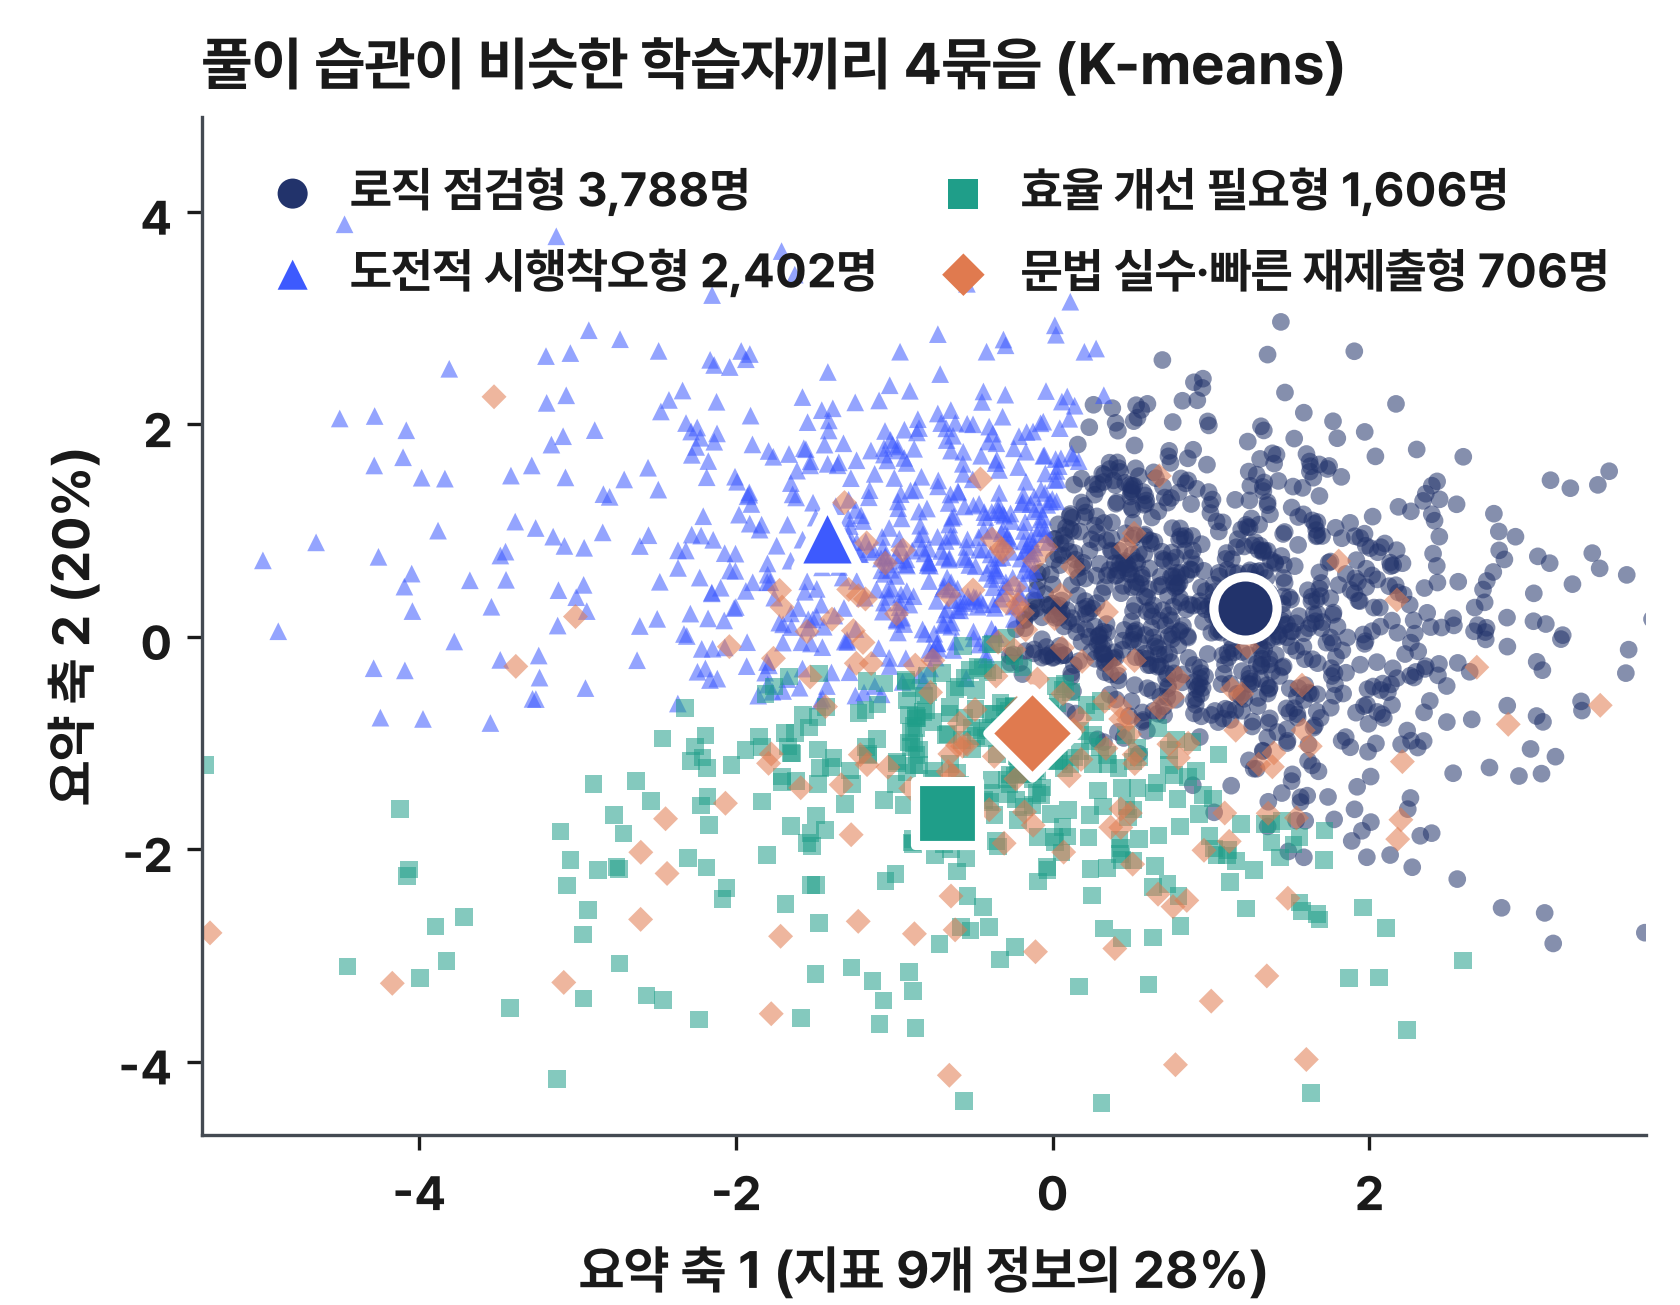
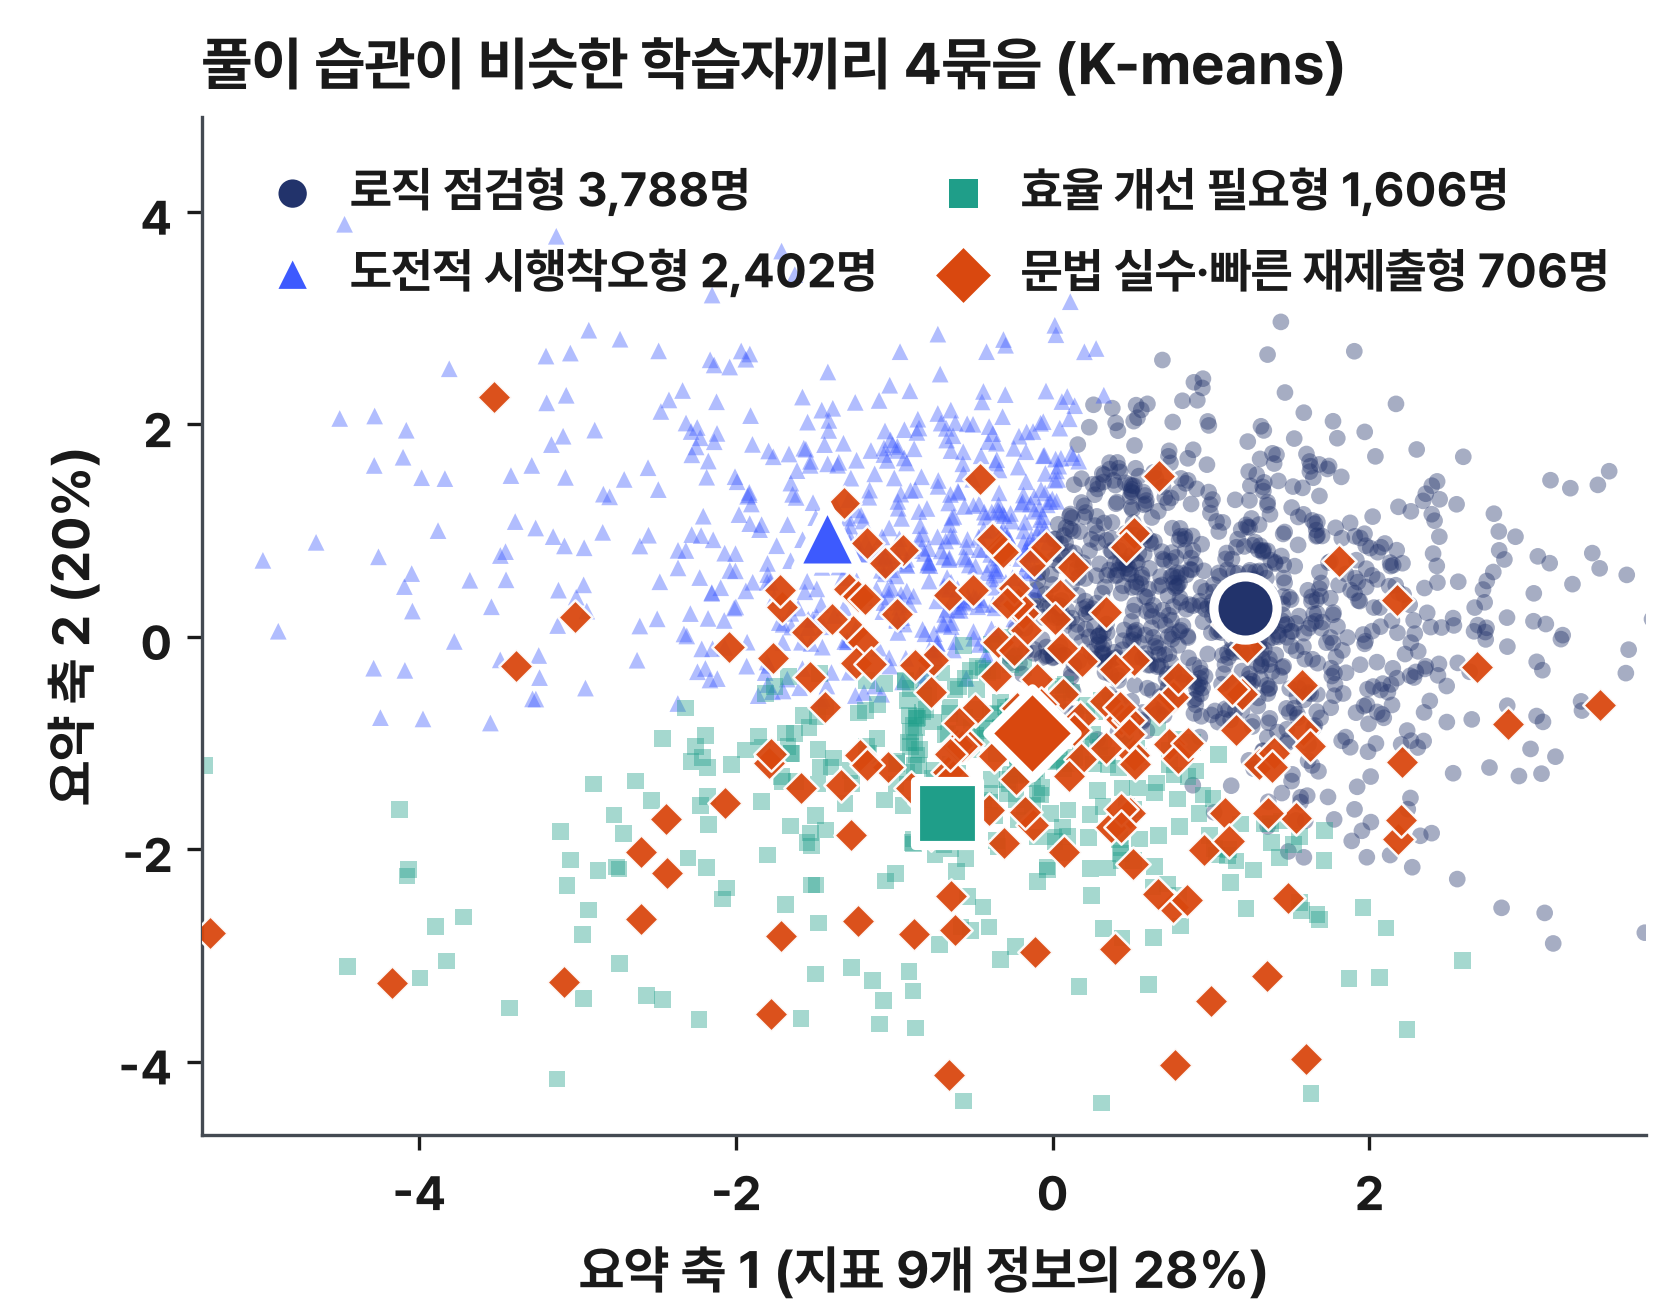
K-means 그래프: 가장 적은 유형(주황 ◆)이 잘 보이도록 수정
- 문법 실수·빠른 재제출형(706명) 점을 더 진한 주황(#D9480F)·더 크게·흰 테두리로, 다른 점 위에 그림
- 다른 유형 점은 조금 더 옅게(alpha 0.40)

diff --git a/make_figures.py b/make_figures.py
@@ -98,12 +98,15 @@ Z = engine.standardize(T, X["레이팅 구간"].to_numpy(), S)[engine.FEATURES].
 Zc = Z - Z.mean(0); U, s_, Vt = np.linalg.svd(Zc, full_matrices=False); P = Zc @ Vt[:2].T
 expl = (s_ ** 2 / (s_ ** 2).sum())[:2]
 C = pd.DataFrame(S["학습유형"]["군집_중심"], columns=engine.FEATURES).to_numpy(); Pc = (C - Z.mean(0)) @ Vt[:2].T
-sty = {2: ("o", NAVY), 4: ("^", BLUE), 1: ("s", "#1F9E89"), 3: ("D", ORANGE)}   # 로직 점검형 ● · 도전적 시행착오형 ▲ · 효율 개선 필요형 ■ · 문법 실수·빠른 재제출형 ◆
+DORANGE = "#D9480F"   # 점이 작아도 잘 보이도록 더 진한 주황
+sty = {2: ("o", NAVY), 4: ("^", BLUE), 1: ("s", "#1F9E89"), 3: ("D", DORANGE)}   # 로직 점검형 ● · 도전적 시행착오형 ▲ · 효율 개선 필요형 ■ · 문법 실수·빠른 재제출형 ◆
 rng = np.random.default_rng(42); idx = rng.choice(len(X), size=min(2000, len(X)), replace=False)
 fig, ax = plt.subplots(figsize=(5.6, 4.35))
 for k in [2, 4, 1, 3]:
     m = X["유형번호"].to_numpy()[idx] == k; mk, col = sty[k]
-    ax.scatter(P[idx][m, 0], P[idx][m, 1], s=18, marker=mk, alpha=0.55, color=col, edgecolors="none",
+    small = k == 3                        # 가장 적은 유형(706명)은 맨 위에, 크고 진하게, 흰 테두리로
+    ax.scatter(P[idx][m, 0], P[idx][m, 1], s=34 if small else 16, marker=mk, alpha=0.95 if small else 0.40, color=col,
+               edgecolors="white" if small else "none", linewidths=0.6, zorder=4 if small else 2,
                label=f"{names[str(k - 1)]} {(X['유형번호'] == k).sum():,}명")
 for k in range(1, 5):
     mk, col = sty[k]; ax.scatter(*Pc[k - 1], s=230, marker=mk, color=col, edgecolors="white", linewidths=2.2, zorder=5)
